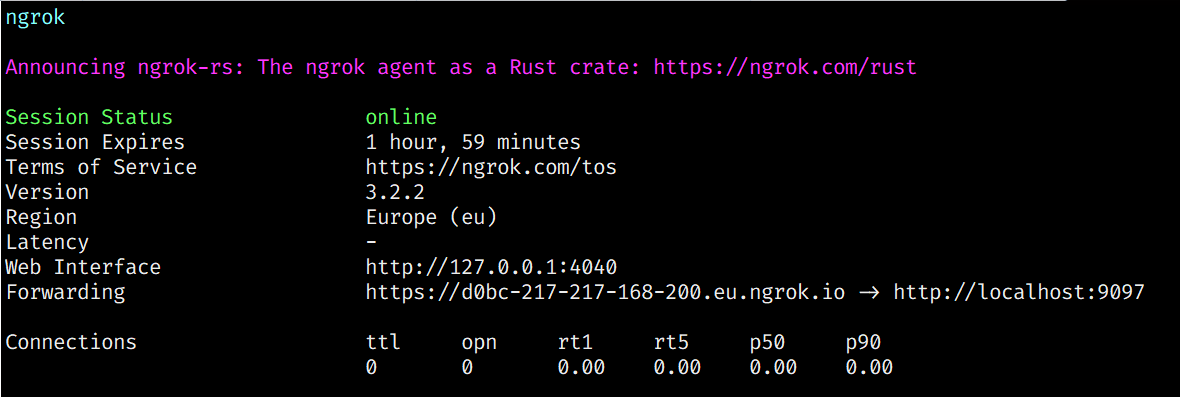
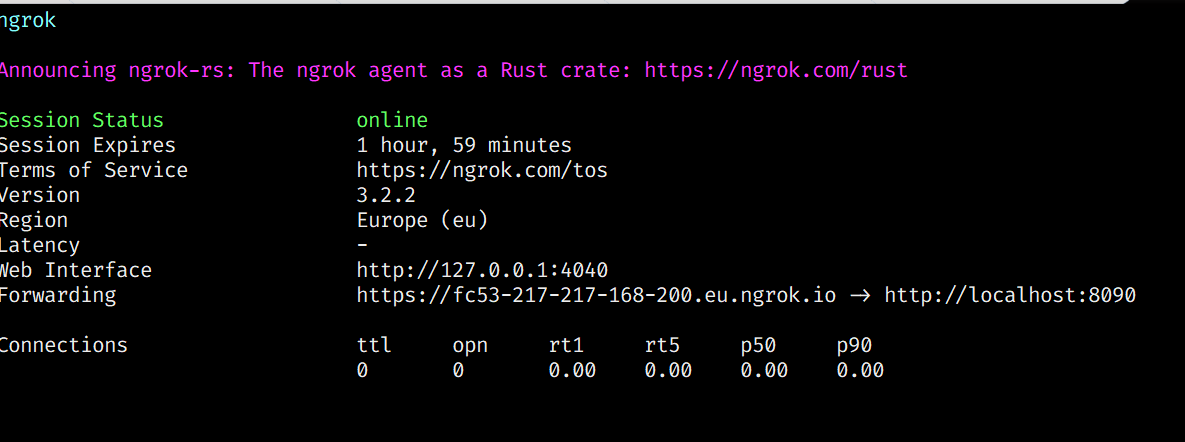
modificado readme

diff --git a/README.md b/README.md
@@ -150,29 +150,38 @@ sudo install kubectl /usr/local/bin/kubectl
     kubectl apply -f https://raw.githubusercontent.com/robertorodriguez98/argocd1/main/app.yaml
     ```
 ![dashboard](images/argo2.png)
+
+8. Ejecutamos el pipeline:
+    1. Copiamos el repositorio y nos movemos a la carpeta:
+    ```bash
+    git clone https://github.com/robertorodriguez98/tekton1.git && cd tekton1
+    ```
+    2. aplicamos los manifiestos necesarios
+    ```bash
+    kubectl apply -f pipeline.yaml,tasks.yaml,triggers-rbac.yaml,trigger-binding.yaml,trigger-template.yaml,event-listener.yaml
+    ```
+    3. Para que el event listener funcione, también hay que hacer un port forward del servicio:
+    ```bash
+    kubectl port-forward service/el-github-pr 8090:8080 --address=0.0.0.0
+
 8. Creamos el webhook en github:
-    1. ejecutamos ngrok aputando al puerto de tekton (9097)
+
+    1. ejecutamos ngrok aputando al puerto del event listener (8090)
     ```bash
     wget https://bin.equinox.io/c/bNyj1mQVY4c/ngrok-v3-stable-linux-amd64.tgz
     sudo tar xvzf ngrok-v3-stable-linux-amd64.tgz -C /usr/local/bin
-    ngrok http 9097
+    ngrok http 8090
     ```
     ![dashboard](images/ngrok.png)
+
     2. Vamos a la página principal del repositorio.
     3. Seleccionamos **Settings**.
-    3. Seleccionamos **Webhooks**.
-    4. Seleccionamos **Add webhook**.
-    5. En **Payload URL** introducimos la url del EventListener de tekton, que podemos obtener con el siguiente comando:
-    ```bash
-    kubectl get eventlistener -n tekton-pipelines
-    ```
-    6. En **Content type** seleccionamos **application/json**.
-    7. En **Secret** introducimos el nombre del secret que hemos creado en el paso 5, en este caso **github**.
-    8. Seleccionamos **Let me select individual events**.
-    9. Seleccionamos **Pushes**.
-    10. Seleccionamos **Add webhook**.
+    4. Seleccionamos **Webhooks**.
+    5. Seleccionamos **Add webhook**.
+    6. En **Payload URL** introducimos la url de ngrok y dejamos las opciones como en la imagen:
+    ![dashboard](images/webhook.png)
 
-
+Ahora, solo quedaría hacer un push al repositorio para que se ejecute el pipeline!  :smile:
 
 
 
